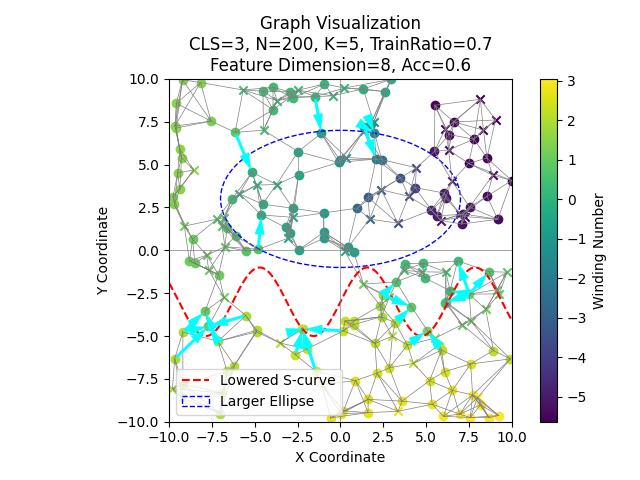
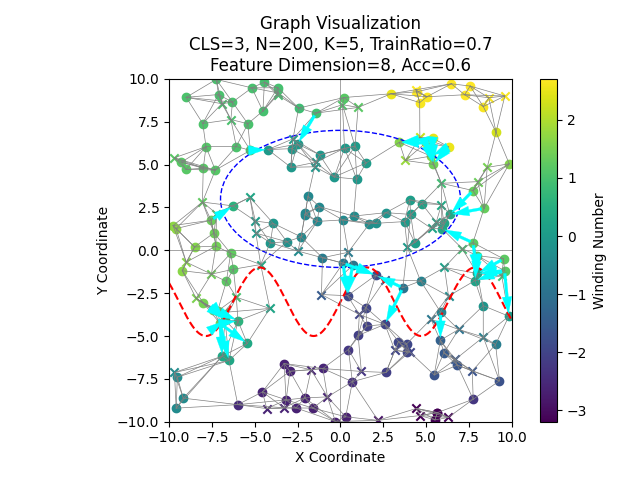
rm divider legend

diff --git a/generate_data.py b/generate_data.py
@@ -113,14 +113,18 @@ class ThreeCategorySplitter(GraphSplitter):
     def draw_dividers(self, ax):
         x_vals = np.linspace(-10, 10, 400)
         y_vals = self.s_curve_func(x_vals)
-        ax.plot(x_vals, y_vals, color='red', linestyle='--', label='Lowered S-curve')
+        ax.plot(x_vals, y_vals, color='red', linestyle='--')
+        # ax.plot(x_vals, y_vals, color='red', linestyle='--', label='Lowered S-curve')
 
-        ellipse = Ellipse(self.ellipse_center, 2*self.ellipse_axes[0], 2*self.ellipse_axes[1], color='blue', fill=False, linestyle='--', label='Larger Ellipse')
+        # ellipse = Ellipse(self.ellipse_center, 2*self.ellipse_axes[0], 2*self.ellipse_axes[1], color='blue',
+        # fill=False, linestyle='--', label='Larger Ellipse')
+        ellipse = Ellipse(self.ellipse_center, 2 * self.ellipse_axes[0], 2 * self.ellipse_axes[1], color='blue',
+                          fill=False, linestyle='--')
         ax.add_patch(ellipse)
 
         ax.set_xlim(-10, 10)
         ax.set_ylim(-10, 10)
-        ax.legend()
+        # ax.legend()
 
 
 class FiveCategorySplitter(GraphSplitter):
